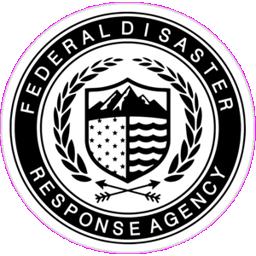
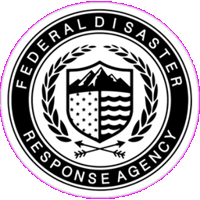
test

diff --git a/Images/resize.py b/Images/resize.py
@@ -19,5 +19,5 @@ def resize_images_in_folder(folder_path, width, height):
 
 # Example usage
 folder_path = r'C:\Users\simon\Zomboid\Workshop\The Last of Us Bandits\Images\factions'  # Replace with your folder path
-width, height = 256, 256  # Desired resolution (width, height)
+width, height = 200, 200  # Desired resolution (width, height)
 resize_images_in_folder(folder_path, width, height)
